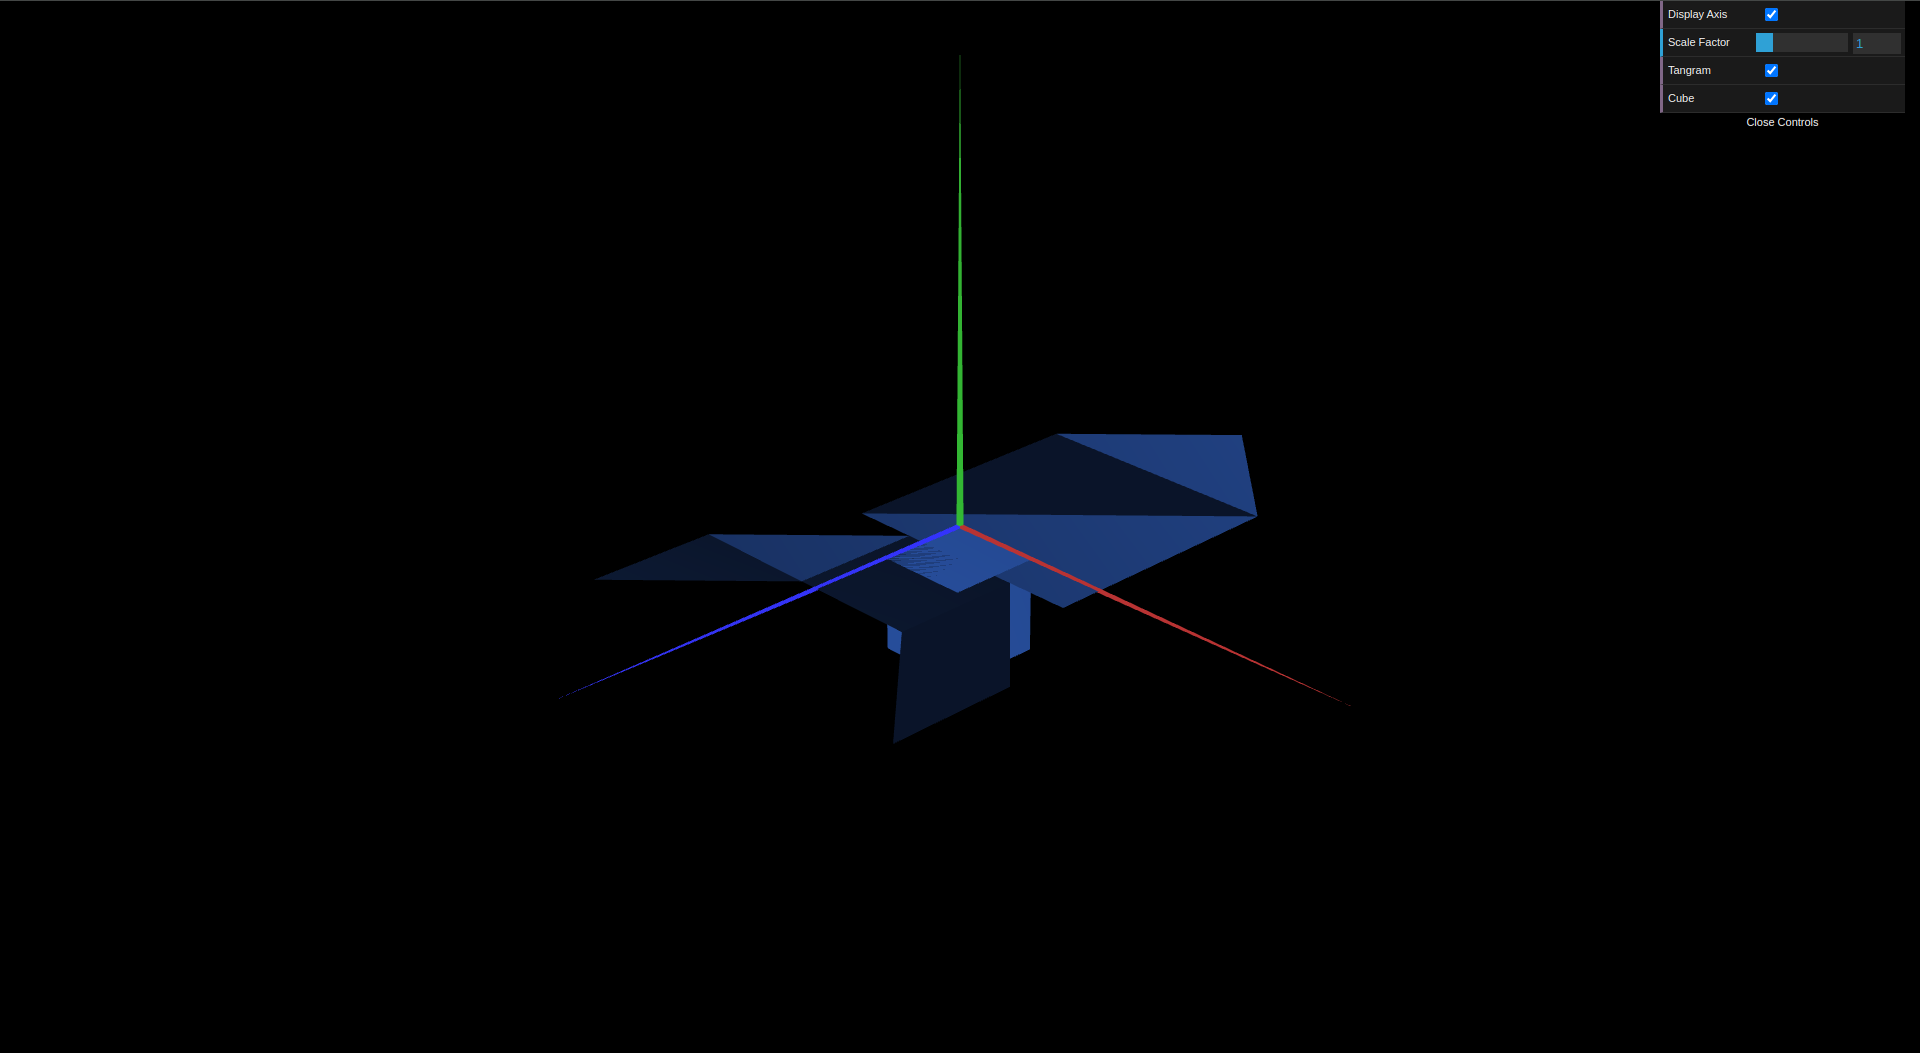
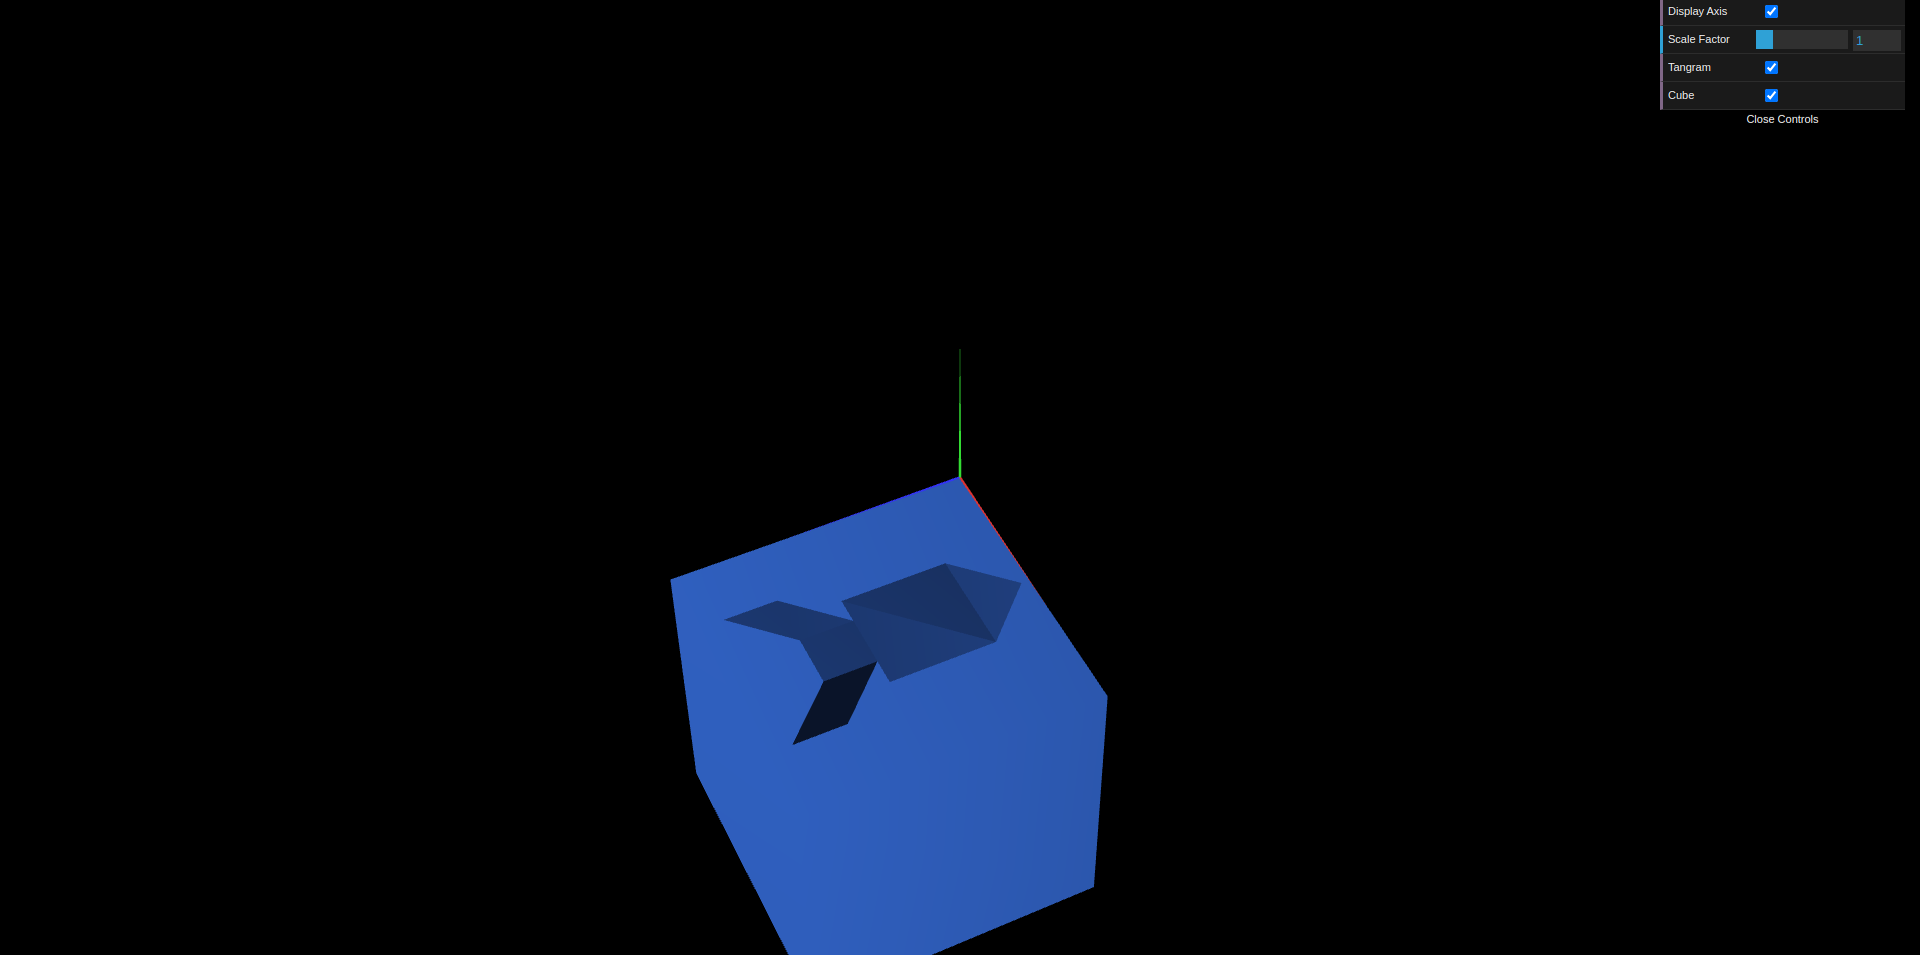
tp2 done

diff --git a/tp2/MyScene.js b/tp2/MyScene.js
@@ -95,13 +95,17 @@ export class MyScene extends CGFscene {
 
     // ---- BEGIN Primitive drawing section
 
-    this.translate(0.5, 0, 0.5);
+    this.translate(4, 0, 4);
 
     this.rotate(-Math.PI/2, 1, 0, 0);
 
-    if (this.displayTangram) this.tangram.display();
+    this.pushMatrix();
+      this.translate(0, -0.5, 0.1);
+      if (this.displayTangram) this.tangram.display();
+    this.popMatrix();
 
     this.pushMatrix();
+      this.scale(8, 8, 8);
       this.translate(0, 0, -0.5);
       if (this.displayCube) this.cube.display();
     this.popMatrix();
